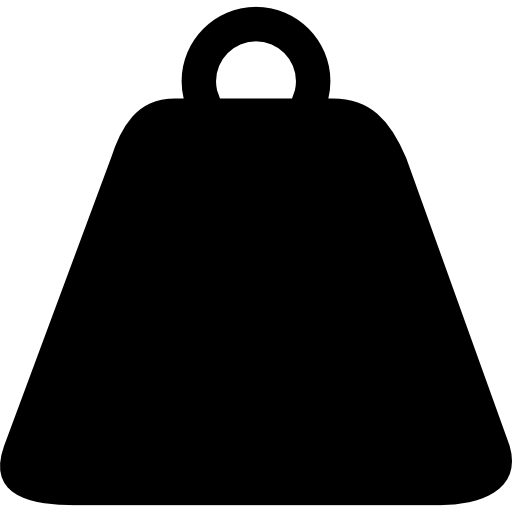
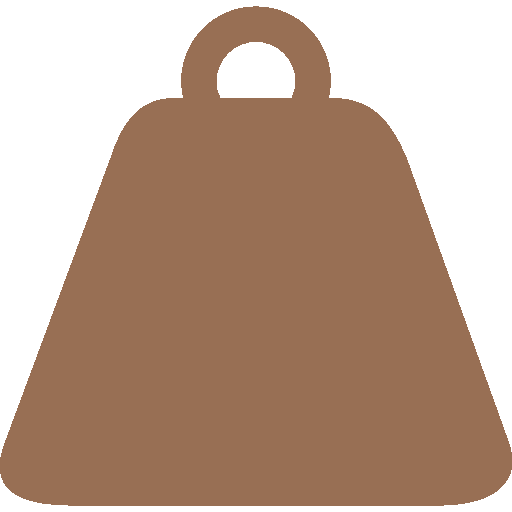
colores para texto y botones

diff --git a/src/pages/Inicio/Inicio.js b/src/pages/Inicio/Inicio.js
@@ -16,15 +16,15 @@ function Inicio (){
           <Row>
             <Col sm={1} lg={6} className="text-container" >
               <div className="text-container w-75">
-                <h1 className="w-75 fw-bold pt-5 pb-3">Creá ambientes llenos de aroma y calidez.</h1>                
-                <p className="mb-0">Nuestras velas aromáticas son el complemento perfecto para crear ambientes irresistibles.</p>
+                <h1 className="w-75 fw-bold pt-5 pb-3" style={{color:"#2D2D2D"}}>Creá ambientes llenos de <span style={{color:"#986F54"}}>aroma y calidez.</span> </h1>                
+                <p className="mb-0">Nuestras velas aromáticas son el complemento perfecto para  <span style={{color:"#986F54"}}>crear ambientes irresistibles</span>.</p>
                 <p>Descubrí nuestra amplia variedad de fragancias y productos para transformar tus espacios.</p>
-                <Link to="/productos"><Button>Ver catálogo</Button></Link>
+                <Link to="/productos"><Button variant="light" className="button-style">Ver catálogo</Button></Link>
               </div>
             </Col>
             <Col sm={1} lg={6}>
               <div className='img-container'>
-                <Image  src="holder.js/171x180" rounded />
+                <Image style={{width: "105%"}} src="./img/img-inicio-1.jpg" />
               </div>
             </Col>
           </Row>
@@ -37,12 +37,16 @@ function Inicio (){
                   <p>Descripción de la característica.</p>
                 </div>              
                 <div className="text-center">  
-                  <Card.Img variant="top" src="holder.js/100px160" roundedCircle />
+                  <svg style={{color:"#986F54"}} xmlns="http://www.w3.org/2000/svg" width="40" height="40" fill="currentColor" class="bi bi-truck" viewBox="0 0 16 16">
+                    <path d="M0 3.5A1.5 1.5 0 0 1 1.5 2h9A1.5 1.5 0 0 1 12 3.5V5h1.02a1.5 1.5 0 0 1 1.17.563l1.481 1.85a1.5 1.5 0 0 1 .329.938V10.5a1.5 1.5 0 0 1-1.5 1.5H14a2 2 0 1 1-4 0H5a2 2 0 1 1-3.998-.085A1.5 1.5 0 0 1 0 10.5v-7zm1.294 7.456A1.999 1.999 0 0 1 4.732 11h5.536a2.01 2.01 0 0 1 .732-.732V3.5a.5.5 0 0 0-.5-.5h-9a.5.5 0 0 0-.5.5v7a.5.5 0 0 0 .294.456zM12 10a2 2 0 0 1 1.732 1h.768a.5.5 0 0 0 .5-.5V8.35a.5.5 0 0 0-.11-.312l-1.48-1.85A.5.5 0 0 0 13.02 6H12v4zm-9 1a1 1 0 1 0 0 2 1 1 0 0 0 0-2zm9 0a1 1 0 1 0 0 2 1 1 0 0 0 0-2z"/>
+                  </svg>
                   <h5>Título característica</h5>
                   <p>Descripción de la característica.</p>  
                 </div>
                 <div className="text-center">      
-                  <Card.Img variant="top" src="holder.js/100px160" roundedCircle />
+                  <svg style={{color:"#986F54"}} xmlns="http://www.w3.org/2000/svg" width="40" height="40" fill="currentColor" class="bi bi-heart" viewBox="0 0 16 16">
+                    <path d="m8 2.748-.717-.737C5.6.281 2.514.878 1.4 3.053c-.523 1.023-.641 2.5.314 4.385.92 1.815 2.834 3.989 6.286 6.357 3.452-2.368 5.365-4.542 6.286-6.357.955-1.886.838-3.362.314-4.385C13.486.878 10.4.28 8.717 2.01L8 2.748zM8 15C-7.333 4.868 3.279-3.04 7.824 1.143c.06.055.119.112.176.171a3.12 3.12 0 0 1 .176-.17C12.72-3.042 23.333 4.867 8 15z"/>
+                  </svg>
                   <h5>Título característica</h5>
                   <p>Descripción de la característica.</p>  
                 </div>  
@@ -56,16 +60,14 @@ function Inicio (){
               </div>
             </Col>
           </Row>
-          <Row>
-            <Col sm={1} lg={3}></Col>
-            <Col sm={1} lg={6} className="d-flex flex-column justify-content-center p-5">
-              <div className="text-center p-3 mb-5">
-                <h3 className="pb-3 fw-bold">Descubrí tu fragancia</h3>
-                <p className="pb-3">¿No sabés qué fragancia elegir? Hacé este simple cuestionario para enterarte de los mejores productos para vos.</p>
-                <Button>Hacer cuestionario</Button>
+          <Row>            
+            <Col sm={1} lg={12} className="d-flex flex-column justify-content-center p-5">
+              <div className="text-center p-5 mb-5 container-fluid" style={{backgroundColor: "#FFF8F2"}}>
+                <h3 className="pb-3 fw-bold" style={{color:"#2D2D2D"}}>Descubrí tu fragancia</h3>
+                <p className="pb-3" style={{marginLeft: "250px", marginRight: "250px"}} >¿No sabés qué fragancia elegir? Hacé este simple cuestionario para enterarte de los mejores productos para vos.</p>
+                <Button variant="light" className="button-style">Hacer cuestionario</Button>
               </div>              
-            </Col>
-            <Col sm={1} lg={3}></Col>
+            </Col>            
           </Row>
           <Row>
             <Col sm={1} lg={6}>
@@ -81,18 +83,18 @@ function Inicio (){
             </Col>
             <Col sm={1} lg={6}>
               <div className="p-4 mb-5">
-                <h2 className="fw-bold">Sobre nosotros</h2>
+                <h2 className="fw-bold" style={{color:"#2D2D2D"}}>Sobre nosotros</h2>
                 <p>Acá va un párrafo</p>
-                <Link to="/Nosotros"><Button>Conocenos</Button></Link>                                    
+                <Link to="/Nosotros"><Button variant="light" className="button-style">Conocenos</Button></Link>                                    
               </div>              
             </Col>
           </Row>
           <Row className='contenedorMayorista'>
             <Col sm={1} lg={6}>
               <div className="p-4 mb-5 text-end">
-                <h2 className="fw-bold">¿Sos mayorista?</h2>
+                <h2 className="fw-bold" style={{color:"#2D2D2D"}}>¿Sos mayorista?</h2>
                 <p>Acá va un párrafo</p>
-                <Button>¡Quiero saber más!</Button>                                   
+                <Button variant="light" className="button-style">¡Quiero saber más!</Button>                                   
               </div>              
             </Col >
             <Col sm={1} lg={6}>
@@ -100,7 +102,7 @@ function Inicio (){
                 <Container>
                   <Row>
                     <Col sm={6}>
-                      <Image src="holder.js/171x180" rounded />
+                      <Image style={{width: "150%", paddingBottom: "60px"}} src="./img/img-inicio-3.jpg" rounded />
                     </Col>                                
                   </Row>
                 </Container>
@@ -110,7 +112,7 @@ function Inicio (){
           <Row>
             <Col sm={1} lg={3}></Col>
             <Col sm={1} lg={6}>
-              <Carousel>
+              <Carousel style={{width: "75%"}}>
                 <Carousel.Item interval={1000}>
                   <img
                     className="d-block w-100"

diff --git a/src/components/ItemDetailContainer/ItemDetailContainer.js b/src/components/ItemDetailContainer/ItemDetailContainer.js
@@ -1,4 +1,4 @@
-import Button from 'react-bootstrap/Button';
+import Button from 'react-bootstrap/Button'
 import Image from 'react-bootstrap/Image';
 import Card from 'react-bootstrap/Card';
 import Container from 'react-bootstrap/Container';
@@ -9,7 +9,6 @@ import Destacados from '../ItemListContainer/destacados'
 import productos from '../../productos'
 import {useParams} from "react-router-dom"
 import { useState, useEffect } from 'react';
-
 
 //--------------------------------------------------------------
 function getSingleItemFromDatabase(idProducto){
@@ -35,24 +34,24 @@ function ItemDetailContainer() {
   }, []);
 
   if (producto.nombre === undefined) 
-  return <Loader/> 
+  return <Loader/>  
 
     return (
       <>
         <Container>
           <Row>
             <Col lg={6} className='mt-5'>
-              <Image src="holder.js/100px250" fluid/>                
+              <Image src={producto.imagen} fluid/>                
             </Col>
             <Col lg={6} className='mt-5'>
               <div>
               <Card>
                 <Card.Body key={producto.id}>
                   <p className='mb-0'>{producto.categoria}</p>
-                  <h1 className='nombreProducto fw-bold mb-3'>{producto.nombre}</h1>                                    
+                  <h1 className='nombreProducto fw-bold mb-3' style={{color:"#2D2D2D"}}>{producto.nombre}</h1>                                    
                    <p>{producto.descripcion}</p>  
                   <span class="d-flex flex-row">                
-                    <svg className='me-3' xmlns="http://www.w3.org/2000/svg" width="16" height="16" fill="currentColor" class="bi bi-clock-fill" viewBox="0 0 16 16">
+                    <svg style={{color:"#986F54"}} className='me-3' xmlns="http://www.w3.org/2000/svg" width="16" height="16" fill="currentColor" class="bi bi-clock-fill" viewBox="0 0 16 16">
                       <path d="M16 8A8 8 0 1 1 0 8a8 8 0 0 1 16 0zM8 3.5a.5.5 0 0 0-1 0V9a.5.5 0 0 0 .252.434l3.5 2a.5.5 0 0 0 .496-.868L8 8.71V3.5z"/>
                     </svg> 
                     <p className='mb-1 ps-3'>Duración de {producto.duracion}hs</p>
@@ -61,7 +60,7 @@ function ItemDetailContainer() {
                     <img className='me-3' alt="" src="../img/herramienta-de-peso-con-mango.png" style={{width: "18px", height: "18px"}}/>
                     <p>{producto.gramos} gramos</p>
                   </span>              
-                  <Button variant="primary">Más información</Button>
+                  <Button variant="light" className="button-style">Más información</Button>
                 </Card.Body>
               </Card>
               </div>

diff --git a/src/components/ItemListContainer/ItemListContainer.js b/src/components/ItemListContainer/ItemListContainer.js
@@ -61,26 +61,24 @@ export default function ItemListContainer (){
     return (
       <>
         <Container>     
-          <Row>
-            <Col sm={1} lg={3}></Col>
-            <Col sm={1} lg={6}>
+          <Row>            
+            <Col sm={1} lg={12}>
               <div className="">
                 <div className="text-center pb-5 pt-5"> 
-                  <h1 className="encabezadoCatalogo fw-bold">Nuestro catálogo</h1>
+                  <h1 className="encabezadoCatalogo fw-bold" style={{color:"#2D2D2D"}}>Nuestro catálogo</h1>
                 </div>
-                <div className="text-center pb-5">                    
-                  <h3 className="fw-bold">Descubrí tu fragancia</h3>
-                  <p>¿No sabés qué fragancia elegir? Hacé este simple cuestionario para enterarte de los mejores productos para vos</p>
+                <div className="text-center p-4 mb-5 container-fluid" style={{backgroundColor: "#E6E6E6"}}>                    
+                  <h3 className="fw-bold" style={{color:"#2D2D2D"}}>Descubrí tu fragancia</h3>
+                  <p className="pb-3" style={{marginLeft: "250px", marginRight: "250px"}} >¿No sabés qué fragancia elegir? Hacé este simple cuestionario para enterarte de los mejores productos para vos</p>
                   <Button>Hacer cuestionario</Button>                
                 </div>
               </div>                
-            </Col>    
-            <Col sm={1} lg={3}></Col>        
+            </Col>                     
           </Row>        
           <Row>
             <Col sm={1} lg={2}>
               <div>
-                <h5 class="fw-bold mb-4">Filtrar por</h5>
+                <h5 class="fw-bold mb-4" style={{color:"#2D2D2D"}}>Filtrar por</h5>
                 <Form>
                   {['checkbox'].map((type) => (
                     <div key={`default-${type}`} className="mb-1 d-flex flex-row bd-highlight ">
@@ -160,7 +158,7 @@ export default function ItemListContainer (){
                   <ItemList productos={productos}/>
                 }
               </div>
-              <Pagination> 
+              <Pagination > 
                 <Pagination.Item active>{1}</Pagination.Item>
                 <Pagination.Item>{2}</Pagination.Item>
                 <Pagination.Item>{3}</Pagination.Item>

diff --git a/src/productos.js b/src/productos.js
@@ -5,35 +5,35 @@ const productos = [
         descripcion: "Vela de soja Milo, pack por 12U",
         duracion:12,
         gramos: 100,
-        imagen: "",},
+        imagen: "/img/img-inicio-1.jpg",},
     {id: 2,
         nombre: "Difusor de vidrio",
         categoria: "Difusores",
         descripcion: "Difusor de vidrio con varillas",
         duracion:12,
         gramos: 100,
-        imagen: "",},
+        imagen: "/img/img-inicio-1.jpg",},
     {id: 3,
         nombre: "Perfumina",
         categoria: "Perfuminas",
         descripcion: "Perfumina nene/nena/unisex",
         duracion:12,
         gramos: 100,
-        imagen: "",},
+        imagen: "/img/img-inicio-1.jpg",},
     {id: 4,
         nombre: "Refill",
         categoria: "Refill",
         descripcion: "Refill cera de soja perfumada",
         duracion:12,
         gramos: 100,
-        imagen: "",},
+        imagen: "/img/img-inicio-1.jpg",},
     {id: 5,
         nombre: "Hornito",
         categoria: "Hornitos",
         descripcion: "Hornito",
         duracion:12,
         gramos: 100,
-        imagen: "",},
+        imagen: "/img/img-inicio-1.jpg",},
     {id: 6,
         nombre: "Vela Asia",
         categoria: "Velas",
@@ -41,7 +41,7 @@ const productos = [
         destacado: true,
         duracion: 12,
         gramos: 100,
-        imagen: "",},
+        imagen: "/img/img-inicio-1.jpg",},
     {id: 7,
         nombre: "Vela Cactus",
         categoria: "Velas",
@@ -49,7 +49,7 @@ const productos = [
         destacado: true,
         duracion: 12,
         gramos: 100,
-        imagen: "",},
+        imagen: "/img/img-inicio-1.jpg",},
     {id: 8,
         nombre: "Difusor Dubai Black",
         categoria: "Difusores",
@@ -57,7 +57,7 @@ const productos = [
         destacado: true,
         duracion: 12,
         gramos: 100,
-        imagen: "",}
+        imagen: "/img/img-inicio-1.jpg",}
 ];
 
 export default productos;

diff --git a/src/components/ItemListContainer/destacados.js b/src/components/ItemListContainer/destacados.js
@@ -4,25 +4,16 @@ import { useState, useEffect } from "react";
 import { useParams } from "react-router-dom"
 import productos from '../../productos';
 
-/*
-function getItemsFromDatabase(){
-    return new Promise((resolve) => {
-      setTimeout(() => {
-        resolve(productos);
-      }, 1000);
-    }); 
-  }*/
-
-  function getItemsDestacadosFromDatabase(){
-    return new Promise((resolve) => {
-      setTimeout(() => {
-        let productsDestacadosFiltered = productos.filter(
-          producto => producto.destacado === true
-        )
-        resolve(productsDestacadosFiltered);
-      }, 1000);
-    }); 
-  }
+function getItemsDestacadosFromDatabase(){
+  return new Promise((resolve) => {
+    setTimeout(() => {
+      let productsDestacadosFiltered = productos.filter(
+        producto => producto.destacado === true
+      )
+      resolve(productsDestacadosFiltered);
+    }, 1000);
+  }); 
+}
 
 function Destacados(){
     const [productos, setProductos ] = useState([]);
@@ -42,10 +33,10 @@ function Destacados(){
     useEffect( () => {
       leerDatos()
     }, [prodDestacado])   
-
+    
     return (
         <div className="pb-5">
-          <h3 className="fw-bold pb-4">Productos destacados</h3>
+          <h3 className="fw-bold pb-4" style={{color:"#986F54"}}>Productos destacados</h3>
           {
               isLoading?
               <Loader/>

diff --git a/src/components/ItemList/ItemList.js b/src/components/ItemList/ItemList.js
@@ -1,6 +1,6 @@
 import React from "react";
 import { Link } from "react-router-dom";
-import Button from 'react-bootstrap/Button';
+import Button from 'react-bootstrap/Button'
 import Card from 'react-bootstrap/Card';
 
 function ItemList({productos}) {
@@ -8,14 +8,14 @@ function ItemList({productos}) {
     <div className="pb-4 d-flex justify-content-start bd-highlight mb-3 flex-wrap">
       {productos.map((producto) => (
         <Card style={{ width: '13rem' }} key={producto.id} className="mb-3 pb-0 ms-3">
-          <Card.Img variant="top" src="holder.js/100px180" />
+          <Card.Img variant="top" src={producto.imagen} />
           <Card.Body>
             <Card.Title >{producto.nombre}</Card.Title>
             <Card.Text className="fs-6">
               {producto.descripcion}
             </Card.Text>            
             <Link to={`/detalle/${producto.id}`}>
-              <Button variant="primary">Más información</Button>
+              <Button variant="light" className="button-style">Más información</Button>
             </Link>
           </Card.Body>
         </Card>

diff --git a/src/Styles/style.css b/src/Styles/style.css
@@ -1,5 +1,24 @@
 /*HOJA DE ESTILOS*/
 
+.button-style{
+    background-color: #FFFFFF;
+    color: #986F54;
+    padding: "4px 10px";
+    border-radius: 15px;   
+    border-color: #986F54;
+}
+
+.button-style:hover{
+    background-color: #986F54;
+    color: #FFFFFF;
+    padding: "4px 10px";
+    border-radius: 15px;   
+    border-color: #986F54;
+}
+
+
+
+
 /*Media Queries Mobile*/
 @media (max-width: 425px)  {    
     /*Home*/    
